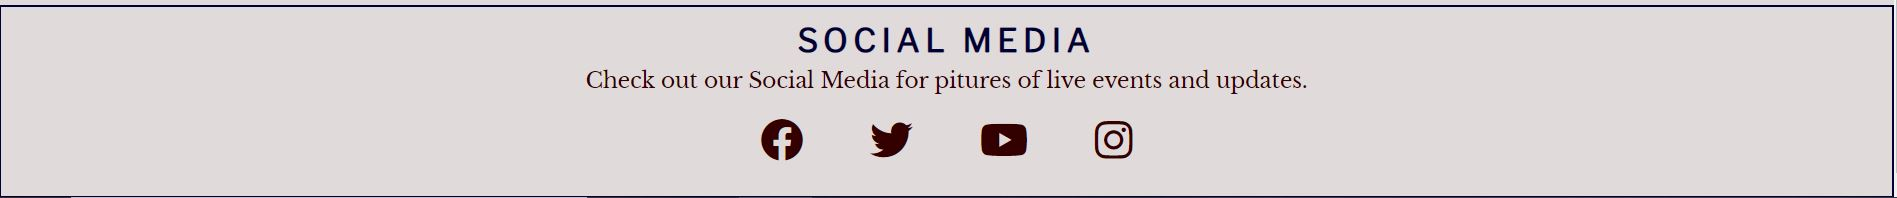
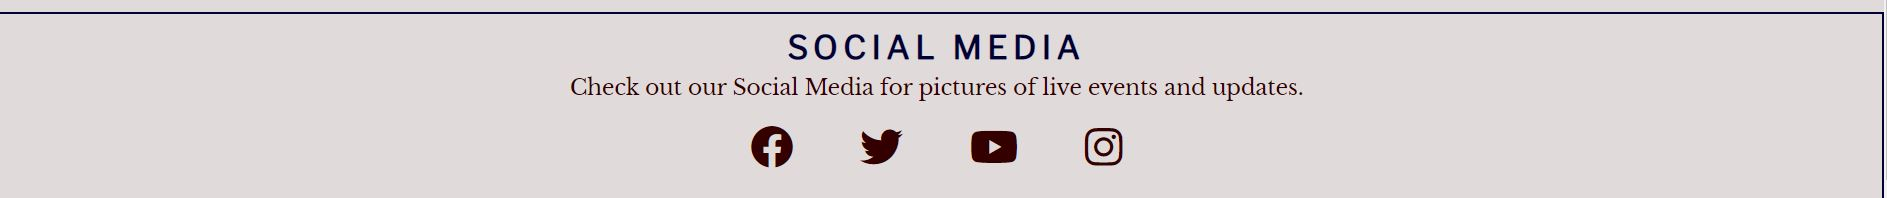
Correct spelling mistakes, edit us-11 image and correct feat-footer image forreadme.md

diff --git a/README.md b/README.md
@@ -102,7 +102,7 @@
 ### Design Choices
 This project has been created out of my love for video games and wish for something when i was younger for a local arcade to have live inhouse tournaments where i could socialise with fellow gamers. 
 
-My goal is to create a welcoming yet efficent website so people of all ages feel at ease while they navigate through the content. In order to achieve this, all relevant content is made easy to read in the index with links to the sign up page for any upcoming events that are taking place another seperate page to book for a party(Birthday, confirmation, christmas) and another page with all relevant contact information.
+My goal is to create a welcoming yet efficent website so people of all ages feel at ease while they navigate through the content. In order to achieve this, all relevant content is made easy to read in the index with links to the sign up page for any upcoming events that are taking place. Another seperate page to book for a party(Birthday, confirmation, christmas) and another page with all relevant contact information.
 
 ### Colour
  The colour sheme was chosen as a dark red and dark blue theme, and was also aided by colorhexa in which a Split Complementary Color was selected. A light grey and soft yellow was used to give it contrast which was selected through adobe color. A slighly soft red was selected for certain alerts in the events page.
@@ -116,15 +116,15 @@ Libre Baskerville was used for the logo and main headings.
 <br>
 Libre Franklin was used for the sub-heading and smaller body elements. 
 <br>
-The fonts were chosen because the Libre Baskerville matched some of the illustraitions in the arcade and match for this font was made through fontjoy.
+The fonts were chosen because the Libre Baskerville matched some of the illustraitions in the arcade. The match for this font was made through fontjoy.
 <br>
 San-serif was used as my backup.
 
 ### Structure
-The page is structured in a simple and recognizable way with it being user friendly so anybody can find it easy to learn. The home page is designed to have all relevanet information once opened. The logo is postioned on the left and navigation on the right and this is shown on all pages in the same way. The design is created also to collaspe on itself when being viewed in differnt viewports while maintaing all relevant information: 
-- A homepage with sections for the bookings section and events section
+The page is structured in a simple and recognizable way with it being user friendly so anybody can find it easy to learn. The home page is designed to have all relevanet information once opened. The logo is postioned on the left, navigation on the right and this is shown on all pages in the same layout. The design is created also to collaspe on itself when being viewed in differnt viewports while maintaing all relevant information: 
+- A homepage with sections for the bookings section and upcoming events section
 - An bookings page with relevant information
-- A events page in which in which you can sign up for an event
+- A events page in which in which you can sign up for an upcoming event
 - A contacts page with a message section to contact the Arcade
 
 ### Wireframes
@@ -465,7 +465,7 @@ The website was tested on the following browsers:
 |Footer - Social Media | Navigate to the footer on each page | Opens Social media in new page| Works as expected |
 
 <details><summary>Screenshots</summary>
-<img src="docs/user-story-testing/user-story-11.jpg">
+<img src="docs/user-story-testing/us-11.jpg">
 </details>
 
 13. As a returning user, I want to know details in regards to making a booking
